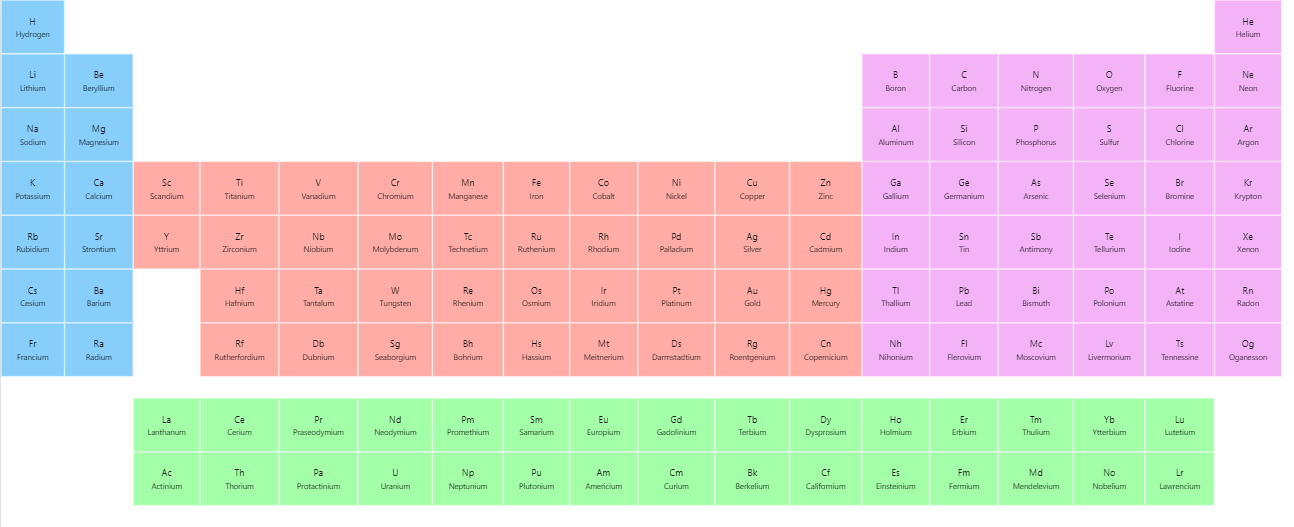
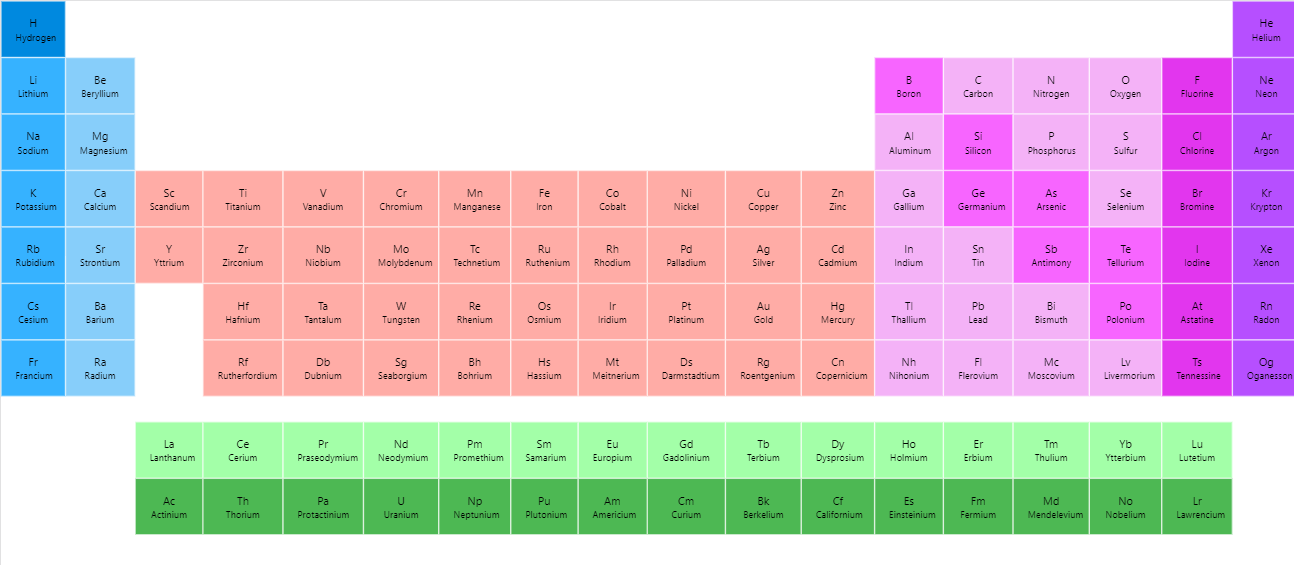
periodic table using grid

diff --git a/periodic-tble/script.js b/periodic-tble/script.js
@@ -17,7 +17,7 @@ const elementsSymbol = [ "H", "He",
                     "Fr", "Ra",  "Rf", "Db", "Sg", "Bh", "Hs", "Mt","Ds","Rg","Cn","Nh","Fl","Mc","Lv","Ts","Og",
                     "La", "Ce", "Pr", "Nd", "Pm", "Sm", "Eu", "Gd", "Tb", "Dy", "Ho", "Er", "Tm", "Yb","Lu",
                     "Ac", "Th", "Pa", "U", "Np", "Pu", "Am", "Cm", "Bk", "Cf", "Es", "Fm", "Md", "No","Lr", ];
-const elementBlock = [ "s", "p noble", 
+const elementBlock = [ "s polyatomic-nonmetal", "p noble", 
                     "s alkali", "s alkali-earth", "p metalloid", "p", "p","p", "p halo","p noble", 
                     "s alkali", "s alkali-earth", "p", "p metalloid", "p", "p", "p halo", "p noble", 
                     "s alkali", "s alkali-earth", "d", "d", "d", "d", "d", "d", "d", "d", "d", "d", "p", "p metalloid", "p metalloid", "p", "p halo", "p noble", 

diff --git a/periodic-tble/home.html b/periodic-tble/home.html
@@ -37,6 +37,9 @@
             border:0.1px solid white;
             text-align: center;  
         }
+        .polyatomic-nonmetal {
+            background-color: #0089df;
+        }
         .alkali {
             background-color: #36b2ff;
         }
@@ -59,6 +62,7 @@
         .noble {
             background-color: #b64fff;
         }
+
 
 
         #table {
